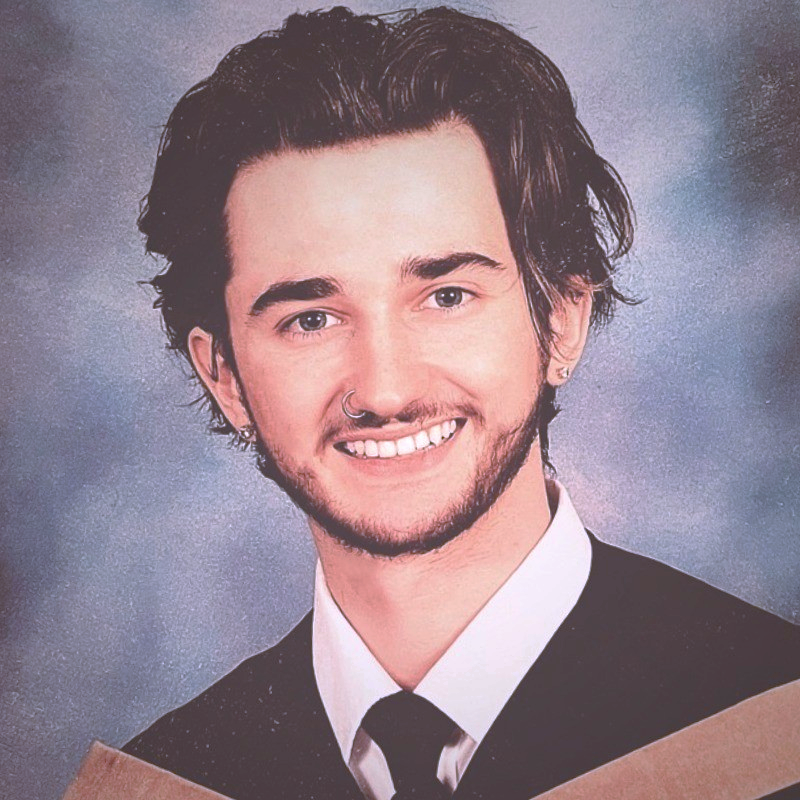
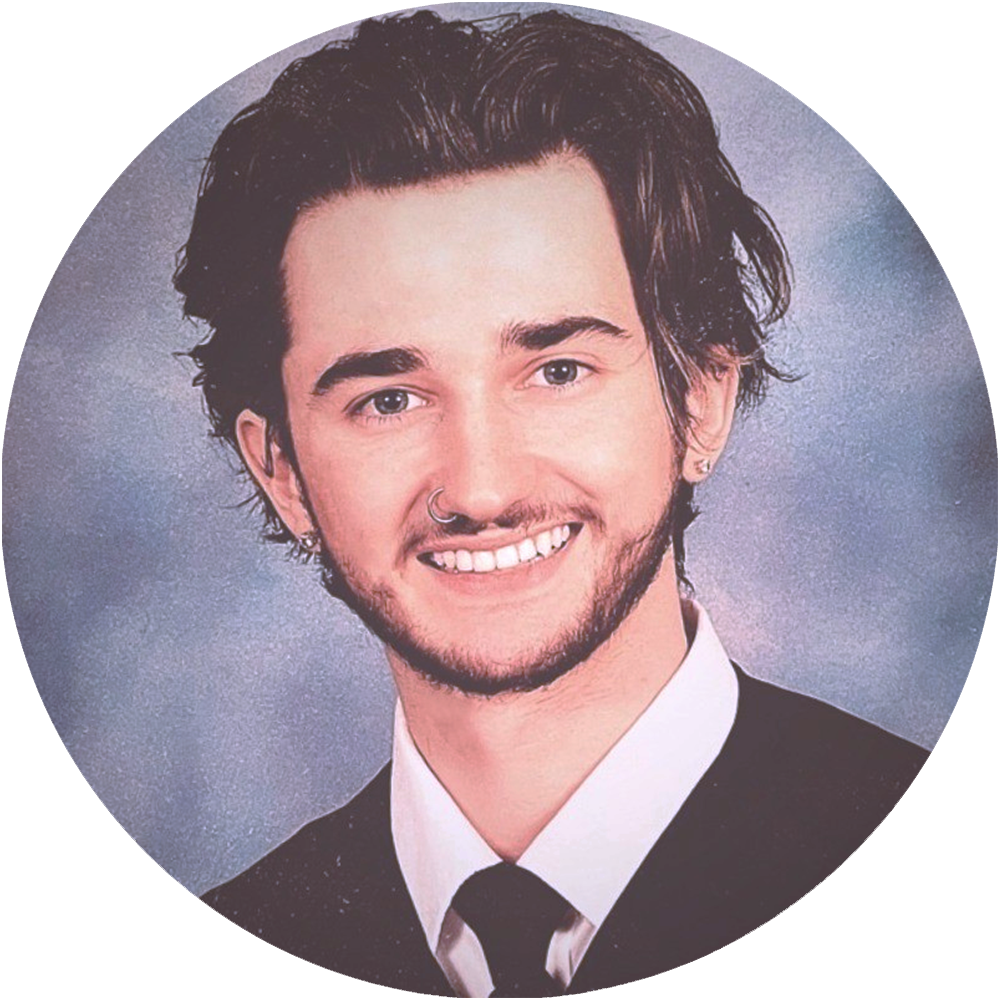
Landing Page Additional Changes
+ Better button interactivity
+ In-text redirects to mentioned sections of the page
+ Profile Image Display Adjustment

diff --git a/index.html b/index.html
@@ -47,7 +47,7 @@ Made while referencing the online tutorial series of https://github.com/Ade-mir
     </nav>
     <section id="profile">
       <div class="section__pic-container">
-        <img src="./assets/profile-pic.png" alt="John Doe profile picture" />
+        <img src="./assets/profile-pic.png" alt="Justin Collier profile picture" />
       </div>
       <div class="section__text">
         <p class="section__text__p1">Hello, I'm</p>
@@ -56,7 +56,7 @@ Made while referencing the online tutorial series of https://github.com/Ade-mir
         <div class="btn-container">
           <button
             class="btn btn-color-2"
-            onclick="window.open('./assets/resume-example.pdf')"
+            onclick="window.open('./assets/Justin_Collier_Resume.pdf')"
           >
             Download CV
           </button>
@@ -128,12 +128,14 @@ Made while referencing the online tutorial series of https://github.com/Ade-mir
           </div>
           <div class="text-container">
             <p>
-                Hi there! I'm Justin Collier, a driven professional with a passion for leveraging technology to create impactful solutions. 
+                &nbsp;&nbsp;&nbsp;&nbsp;&nbsp; 
+                Hi there! I'm Justin Collier, a driven professional with a passion for leveraging technology to create impactful solutions.
+                <br/><br/>
+                &nbsp;&nbsp;&nbsp;&nbsp;&nbsp;
                 With a solid foundation in Computer Science and Artificial Intelligence, I've honed my skills through hands-on experience and academic achievements.
-                I hold a Bachelor's degree in Game Design and Entrepreneurship from Ontario Tech University, where I showcased my knack for 
-                innovation and collaboration. Building on this foundation, I pursued further education, earning both an Ontario College 
-                Diploma in Computer Science and a Graduate Diploma in Artificial Intelligence Analysis, Design, and 
-                Implementation from Durham College.
+                I continue to develop a number of projects in my spare time to continously stay competitive and up to date with the newest trends and
+                technologies. You can view some of my many projects 
+                <span style="color:cadetblue; cursor: pointer;" onclick="location.href='./#projects'" onmouseover="this.style.color='grey'" onmouseout="this.style.color='cadetblue'"> here. </span>
             </p>
           </div>
         </div>
